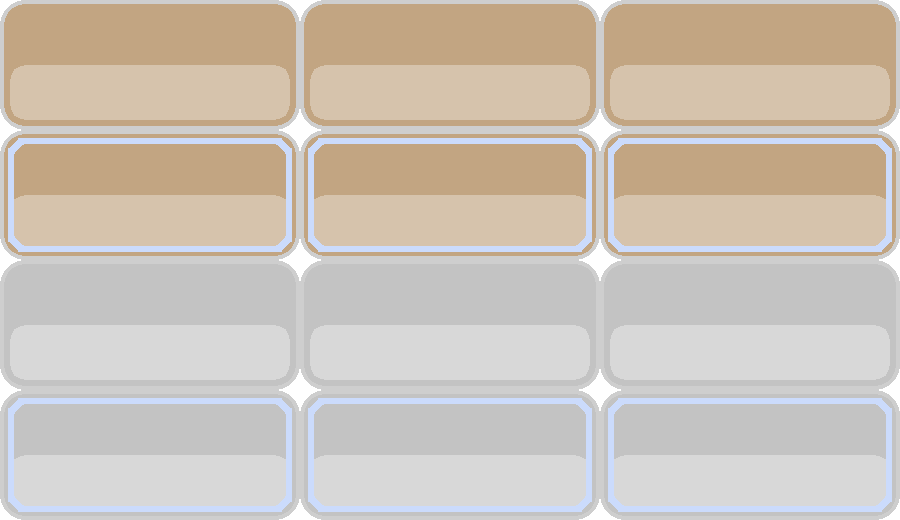
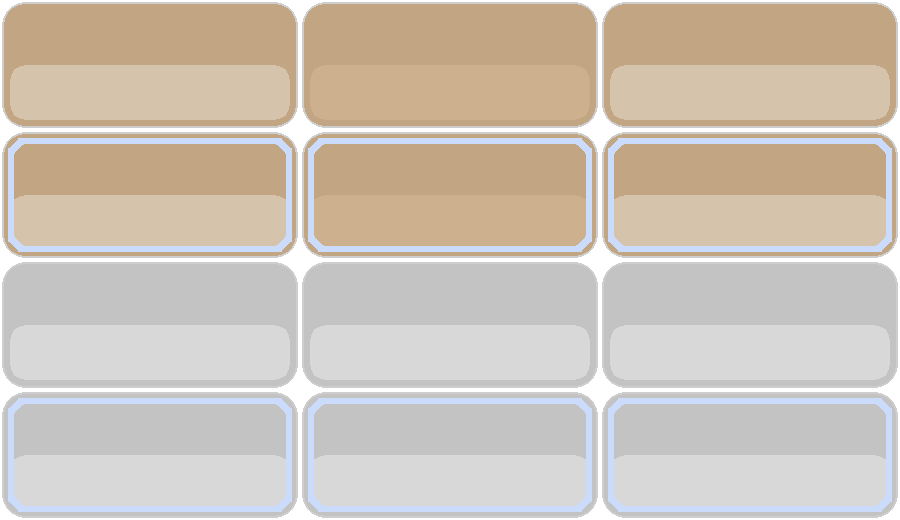
Revise UI assets

diff --git a/app/src/main/java/com/lifejourney/townhall/SettingBox.java b/app/src/main/java/com/lifejourney/townhall/SettingBox.java
@@ -43,7 +43,7 @@ public class SettingBox extends Widget implements Button.Event, MessageBox.Event
         addSprite(backgroundSprite);
 
         // Music button
-        Rect musicButtonRegion = new Rect(getRegion().left() + 40, getRegion().top() + 26,
+        Rect musicButtonRegion = new Rect(getRegion().left() + 40, getRegion().top() + 28,
                 56, 60);
         musicButton = new Button.Builder(this, musicButtonRegion)
                 .imageSpriteAsset("setting_icon_btns.png").numImageSpriteSet(6)
@@ -56,12 +56,12 @@ public class SettingBox extends Widget implements Button.Event, MessageBox.Event
         }
         addWidget(musicButton);
 
-        PointF textPosition = new PointF(50, -96);
+        PointF textPosition = new PointF(50, -94);
         addText("음악 On/Off", new SizeF(200, 40), textPosition.clone(),
-                Color.rgb(35, 35, 35));
+                Color.rgb(61, 61, 61));
 
         // Sound Effect button
-        Rect soundEffectButtonRegion = new Rect(getRegion().left() + 40, getRegion().top() + 89,
+        Rect soundEffectButtonRegion = new Rect(getRegion().left() + 40, getRegion().top() + 91,
                 56, 60);
         soundEffectButton = new Button.Builder(this, soundEffectButtonRegion)
                 .imageSpriteAsset("setting_icon_btns.png").numImageSpriteSet(6)
@@ -74,12 +74,12 @@ public class SettingBox extends Widget implements Button.Event, MessageBox.Event
         }
         addWidget(soundEffectButton);
 
-        textPosition = new PointF(50, -33);
+        textPosition = new PointF(50, -31);
         addText("효과음 On/Off", new SizeF(200, 40), textPosition.clone(),
-                Color.rgb(35, 35, 35));
+                Color.rgb(61, 61, 61));
 
         // Exit button
-        Rect exitButtonRegion = new Rect(getRegion().left() + 40, getRegion().top() + 152,
+        Rect exitButtonRegion = new Rect(getRegion().left() + 40, getRegion().top() + 154,
                 56, 60);
         exitButton = new Button.Builder(this, exitButtonRegion)
                 .imageSpriteAsset("setting_icon_btns.png").numImageSpriteSet(6)
@@ -88,12 +88,12 @@ public class SettingBox extends Widget implements Button.Event, MessageBox.Event
         exitButton.setImageSpriteSet(4);
         addWidget(exitButton);
 
-        textPosition = new PointF(50, 30);
+        textPosition = new PointF(50, 32);
         addText("종료하기", new SizeF(200, 40), textPosition.clone(),
-                Color.rgb(35, 35, 35));
+                Color.rgb(61, 61, 61));
 
         // Close button
-        Rect closeButtonRegion = new Rect(getRegion().left() + 40, getRegion().top() + 215,
+        Rect closeButtonRegion = new Rect(getRegion().left() + 40, getRegion().top() + 217,
                 56, 60);
         closeButton = new Button.Builder(this, closeButtonRegion)
                 .imageSpriteAsset("setting_icon_btns.png").numImageSpriteSet(6)
@@ -102,9 +102,9 @@ public class SettingBox extends Widget implements Button.Event, MessageBox.Event
         closeButton.setImageSpriteSet(5);
         addWidget(closeButton);
 
-        textPosition = new PointF(50, 93);
+        textPosition = new PointF(50, 95);
         addText("돌아가기", new SizeF(200, 40), textPosition.clone(),
-                Color.rgb(35, 35, 35));
+                Color.rgb(61, 61, 61));
     }
 
     /**
